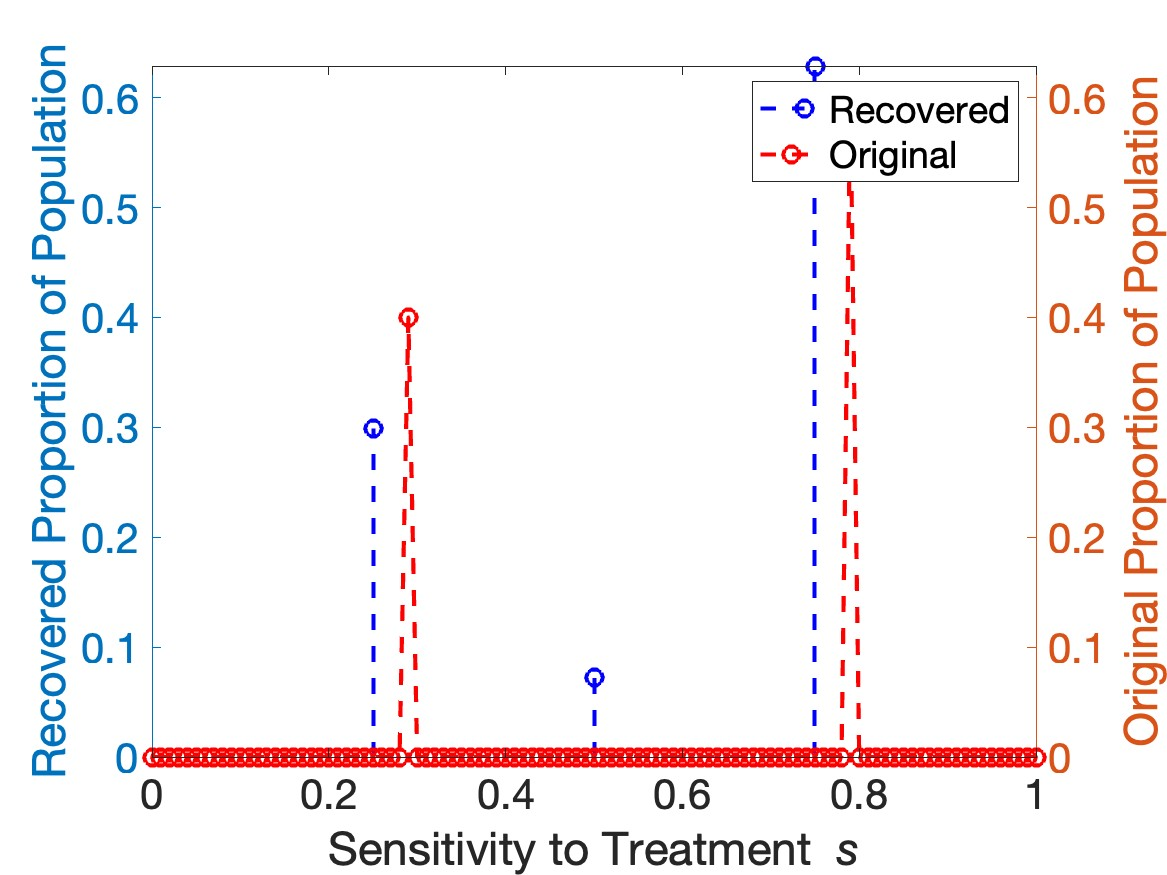
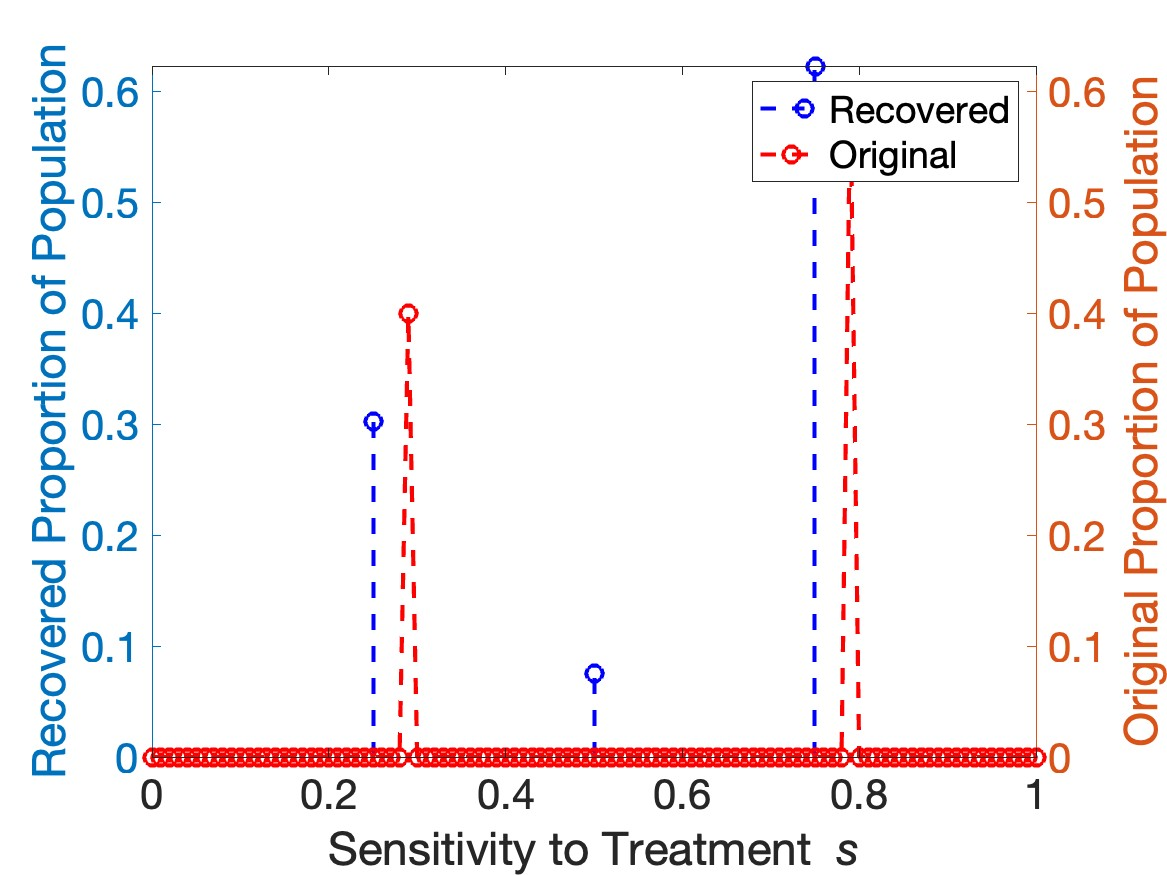
Add dosage vs. sensitivity plot and update figures

diff --git a/DosageVRSensitivity.m b/DosageVRSensitivity.m
@@ -1,0 +1,245 @@
+%S500
+concvecSs500=[1     2     3     4     5     6     7     8     9    10    11];
+evvecs500=[0.391554778598877
+   0.352425300405143
+   0.389966196518857
+   0.474806025021250
+   0.653831925103922
+   0.827238854301867
+   0.877074411165618
+   1.000000000000000
+   0.992086312797904
+   1.000000000000000
+   0.910351624119585];
+concvecSs100=[ 1     2     3     4     5     6     7     8     9    10];
+evvecs100=[0.309137258143782
+   0.376226119126448
+   0.444147924964657
+   0.488238161747171
+   0.575640508475282
+   0.692432499975030
+   0.820227387509498
+   1.000000000000000
+   1.000000000000000
+   0.982673013036324];
+concvecSr250=[1     2     3     4     5     6     7     8     9    10    11];
+evvecr250=[0.002471250675863
+   0.127051505876649
+   0.134933309964287
+   0.135628018300982
+   0.183493012158774
+   0.211724440249231
+   0.149751623117030
+   0.114473971160524
+   0.000000000000000
+   0.000000000000000
+   0.023368902402449];
+concvecSr500=[ 1     2     3     4     5     6     7     8     9    10    11];
+evvecr500=[0.005653121488685
+   0.030778546248698
+   0.028191744271588
+   0.000671181988044
+   0.027802537570680
+   0.046127126386338
+   0.000000000000000
+   0.000000000000000
+   0.000000000000000
+   0.000000000000000
+   0.015621836156726];
+concvecSbf11=[  1     2     3     4     5     6     7     8     9    10    11];
+evvecbf11=[0.199500419290343
+   0.270224097312327
+   0.299152332415836
+   0.295285747402492
+   0.319495739999136
+   0.367514320329439
+   0.384949307641148
+   0.369222334192770
+   0.251851433123408
+   0.170497317171638
+   0.307429525772766];
+concvecSbf12=[ 1     2     3     4     5     6     7     8     9    10    11];
+evvecbf12=[0.122159159646169
+   0.109959944033354
+   0.121343177525710
+   0.138427504349731
+   0.184550933157761
+   0.180404249604588
+   0.227362252986868
+   0.128476985398751
+   0.069412681263310
+   0.000000000000000
+   0.138038080485024];
+concvecSbf21=[1     2     3     4     5     6     7     8     9    10    11
+];
+evvecbf21=[0.392641562612595
+   0.414362693626728
+   0.424092262316530
+   0.542558491547363
+   0.626085478998792
+   0.676012738599930
+   0.727062601862941
+   0.722953321626847
+   0.653787072273230
+   0.605415698766361
+   0.696717225937701];
+concvecSbf41=[1     2     3     4     5     6     7     8     9    10    11
+];
+evvecbf41=[ 0.338227965860502
+   0.393182636770071
+   0.413165524751177
+   0.484858984341095
+   0.618003179229237
+   0.657787331045966
+   0.769264286272438
+   0.816442865706253
+   0.737992224323920
+   0.743279011796481
+   0.875163598277047];
+
+clr=jet(6);
+
+dosevec= [0, 0.0260,0.0536, 0.1094, 0.2244, 0.3410,0.4603,1.1908,2.4430,3.7133,5.0119];
+% 
+% figure
+% plot(concvecSs100,evvecs100,'d','LineWidth',2,'Color',clr(3,:))
+% hold on
+% plot(concvecSs500,evvecs500,'d','LineWidth',2,'Color',clr(3,:))
+
+%just resistant
+figure
+semilogx(dosevec(concvecSr250),evvecr250,'d','MarkerSize',8,'LineWidth',2,'Color',clr(1,:))
+hold on
+semilogx(dosevec(concvecSr500),evvecr500,'o','MarkerSize',8,'LineWidth',2,'Color',clr(1,:))
+% hold on
+% semilogx(dosevec(concvecSs500),evvecs500,'d','MarkerSize',8,'LineWidth',2,'Color',clr(6,:))
+% hold on
+% semilogx(dosevec(concvecSs100),evvecs100,'d','MarkerSize',8,'LineWidth',2,'Color',clr(6,:))
+% %legend('Resistant Data 1','Resistant Data 2','Sensitive Data 1','Sensitive Data 2','Location','northwest')
+% semilogx(dosevec(concvecSbf12),evvecbf12,'d','MarkerSize',8,'LineWidth',2,'Color',clr(2,:))
+% hold on
+% semilogx(dosevec(concvecSbf11),evvecbf11,'d','MarkerSize',8,'LineWidth',2,'Color',clr(3,:))
+% hold on
+% semilogx(dosevec(concvecSbf21),evvecbf21,'d','MarkerSize',8,'LineWidth',2,'Color',clr(4,:))
+% hold on
+% semilogx(dosevec(concvecSbf41),evvecbf41,'d','MarkerSize',8,'LineWidth',2,'Color',clr(5,:))
+legend('Resistant 1','Resistant 2','Location','northwest','FontSize',16)
+ylim([0 1])
+xlabel('Log(Dosage)')
+ylabel('Mean Recovered Sensitivity')
+set(gca,"FontSize",20)
+
+%resistant and sensitive
+figure
+semilogx(dosevec(concvecSr250),evvecr250,'d','MarkerSize',8,'LineWidth',2,'Color',clr(1,:))
+hold on
+semilogx(dosevec(concvecSr500),evvecr500,'o','MarkerSize',8,'LineWidth',2,'Color',clr(1,:))
+hold on
+semilogx(dosevec(concvecSs500),evvecs500,'d','MarkerSize',8,'LineWidth',2,'Color',clr(6,:))
+hold on
+semilogx(dosevec(concvecSs100),evvecs100,'o','MarkerSize',8,'LineWidth',2,'Color',clr(6,:))
+% %legend('Resistant Data 1','Resistant Data 2','Sensitive Data 1','Sensitive Data 2','Location','northwest')
+% semilogx(dosevec(concvecSbf12),evvecbf12,'d','MarkerSize',8,'LineWidth',2,'Color',clr(2,:))
+% hold on
+% semilogx(dosevec(concvecSbf11),evvecbf11,'d','MarkerSize',8,'LineWidth',2,'Color',clr(3,:))
+% hold on
+% semilogx(dosevec(concvecSbf21),evvecbf21,'d','MarkerSize',8,'LineWidth',2,'Color',clr(4,:))
+% hold on
+% semilogx(dosevec(concvecSbf41),evvecbf41,'d','MarkerSize',8,'LineWidth',2,'Color',clr(5,:))
+legend('Resistant 1','Resistant 2','Sensitive 1','Sensitive 2','Location','northwest','FontSize',16)
+xlabel('Log(Dosage)')
+ylabel('Mean Recovered Sensitivity')
+set(gca,"FontSize",20)
+
+%resistant, sensitive, and 1:2
+figure
+semilogx(dosevec(concvecSr250),evvecr250,'d','MarkerSize',8,'LineWidth',2,'Color',clr(1,:))
+hold on
+semilogx(dosevec(concvecSr500),evvecr500,'o','MarkerSize',8,'LineWidth',2,'Color',clr(1,:))
+%legend('Resistant Data 1','Resistant Data 2','Sensitive Data 1','Sensitive Data 2','Location','northwest')
+semilogx(dosevec(concvecSbf12),evvecbf12,'d','MarkerSize',8,'LineWidth',2,'Color',clr(2,:))
+% hold on
+% semilogx(dosevec(concvecSbf11),evvecbf11,'d','MarkerSize',8,'LineWidth',2,'Color',clr(3,:))
+% hold on
+% semilogx(dosevec(concvecSbf21),evvecbf21,'d','MarkerSize',8,'LineWidth',2,'Color',clr(4,:))
+% hold on
+% semilogx(dosevec(concvecSbf41),evvecbf41,'d','MarkerSize',8,'LineWidth',2,'Color',clr(5,:))
+% hold on
+semilogx(dosevec(concvecSs500),evvecs500,'d','MarkerSize',8,'LineWidth',2,'Color',clr(6,:))
+hold on
+semilogx(dosevec(concvecSs100),evvecs100,'o','MarkerSize',8,'LineWidth',2,'Color',clr(6,:))
+legend('Resistant 1','Resistant 2','S:2R Mixture','Sensitive 1','Sensitive 2','Location','northwest','FontSize',16)
+xlabel('Log(Dosage)')
+ylabel('Mean Recovered Sensitivity')
+set(gca,"FontSize",20)
+
+%r,s,1:2,1:1
+figure
+semilogx(dosevec(concvecSr250),evvecr250,'d','MarkerSize',8,'LineWidth',2,'Color',clr(1,:))
+hold on
+semilogx(dosevec(concvecSr500),evvecr500,'o','MarkerSize',8,'LineWidth',2,'Color',clr(1,:))
+
+%legend('Resistant Data 1','Resistant Data 2','Sensitive Data 1','Sensitive Data 2','Location','northwest')
+semilogx(dosevec(concvecSbf12),evvecbf12,'d','MarkerSize',8,'LineWidth',2,'Color',clr(2,:))
+hold on
+semilogx(dosevec(concvecSbf11),evvecbf11,'d','MarkerSize',8,'LineWidth',2,'Color',clr(3,:))
+% hold on
+% semilogx(dosevec(concvecSbf21),evvecbf21,'d','MarkerSize',8,'LineWidth',2,'Color',clr(4,:))
+% hold on
+% semilogx(dosevec(concvecSbf41),evvecbf41,'d','MarkerSize',8,'LineWidth',2,'Color',clr(5,:))
+% hold on
+semilogx(dosevec(concvecSs500),evvecs500,'d','MarkerSize',8,'LineWidth',2,'Color',clr(6,:))
+hold on
+semilogx(dosevec(concvecSs100),evvecs100,'o','MarkerSize',8,'LineWidth',2,'Color',clr(6,:))
+legend('Resistant 1','Resistant 2','S:2R Mixture','S:R Mixture','Sensitive 1','Sensitive 2','Location','northwest','FontSize',16)
+xlabel('Log(Dosage)')
+ylabel('Mean Recovered Sensitivity')
+set(gca,"FontSize",20)
+
+%all but 4:1
+figure
+semilogx(dosevec(concvecSr250),evvecr250,'d','MarkerSize',8,'LineWidth',2,'Color',clr(1,:))
+hold on
+semilogx(dosevec(concvecSr500),evvecr500,'o','MarkerSize',8,'LineWidth',2,'Color',clr(1,:))
+
+%legend('Resistant Data 1','Resistant Data 2','Sensitive Data 1','Sensitive Data 2','Location','northwest')
+semilogx(dosevec(concvecSbf12),evvecbf12,'d','MarkerSize',8,'LineWidth',2,'Color',clr(2,:))
+hold on
+semilogx(dosevec(concvecSbf11),evvecbf11,'d','MarkerSize',8,'LineWidth',2,'Color',clr(3,:))
+hold on
+semilogx(dosevec(concvecSbf21),evvecbf21,'d','MarkerSize',8,'LineWidth',2,'Color',clr(4,:))
+% hold on
+% semilogx(dosevec(concvecSbf41),evvecbf41,'d','MarkerSize',8,'LineWidth',2,'Color',clr(5,:))
+hold on
+semilogx(dosevec(concvecSs500),evvecs500,'d','MarkerSize',8,'LineWidth',2,'Color',clr(6,:))
+hold on
+semilogx(dosevec(concvecSs100),evvecs100,'o','MarkerSize',8,'LineWidth',2,'Color',clr(6,:))
+legend('Resistant 1','Resistant 2','S:2R Mixture','S:R Mixture','2S:R Mixture','Sensitive 1','Sensitive 2','Location','northwest','FontSize',16)
+xlabel('Log(Dosage)')
+ylabel('Mean Recovered Sensitivity')
+set(gca,"FontSize",20)
+
+
+%all
+figure
+semilogx(dosevec(concvecSr250),evvecr250,'d','MarkerSize',8,'LineWidth',2,'Color',clr(1,:))
+hold on
+semilogx(dosevec(concvecSr500),evvecr500,'o','MarkerSize',8,'LineWidth',2,'Color',clr(1,:))
+
+%legend('Resistant Data 1','Resistant Data 2','Sensitive Data 1','Sensitive Data 2','Location','northwest')
+semilogx(dosevec(concvecSbf12),evvecbf12,'d','MarkerSize',8,'LineWidth',2,'Color',clr(2,:))
+hold on
+semilogx(dosevec(concvecSbf11),evvecbf11,'d','MarkerSize',8,'LineWidth',2,'Color',clr(3,:))
+hold on
+semilogx(dosevec(concvecSbf21),evvecbf21,'d','MarkerSize',8,'LineWidth',2,'Color',clr(4,:))
+hold on
+semilogx(dosevec(concvecSbf41),evvecbf41,'d','MarkerSize',8,'LineWidth',2,'Color',clr(5,:))
+hold on
+semilogx(dosevec(concvecSs500),evvecs500,'d','MarkerSize',8,'LineWidth',2,'Color',clr(6,:))
+hold on
+semilogx(dosevec(concvecSs100),evvecs100,'o','MarkerSize',8,'LineWidth',2,'Color',clr(6,:))
+legend('Resistant 1','Resistant 2','S:2R Mixture','S:R Mixture','2S:R Mixture','4S:R Mixture','Sensitive 1','Sensitive 2','Location','northwest','FontSize',16)
+xlabel('Log(Dosage)')
+ylabel('Mean Recovered Sensitivity')
+set(gca,"FontSize",20)
+

diff --git a/GLSAllDataInclNaNsPaper.m b/GLSAllDataInclNaNsPaper.m
@@ -8,7 +8,7 @@ clear all
 
 format long
 
-choosedata=['S500']; %choose between R250, R500, S500, and S1000
+choosedata=['BF41']; %choose between R250, R500, S500, and S1000
 %or BF11,BF12,BF21,BF41
 %rho=0.3; %originially chosen from phenopop to be 0.3
 %k=0.15; %originially chosen arbitrarily to be 0.15
@@ -34,24 +34,26 @@ if choosedata=='R250'
     rhomin=0.0241;
     rhomax=0.0692; %from first row
     kmin=0;
+    %kmin=-0.062361366641783; %when neg k is allowed
     kmax=0.0019; %just chose lower option
 elseif choosedata=='R500'
     rhomin=0.0375;
     rhomax=0.0682; 
     kmin=0;
+    %kmin=-0.061447543419865; %when neg k is allowed 
     kmax=0.0019; %just chose lower option
     %kmax = 0.004; %experimenting 
 elseif choosedata=='S500'
     rhomin=0.0241; %just chose lower option
     rhomax=0.0692; %just chose higher option 
-    %kmin=0;
-    kmin=-0.043428075769482; %if we allow neg death term
+    kmin=0;
+    %kmin=-0.043428075769482; %if we allow neg death term
     kmax=0.0019; %from 10th row
 elseif choosedata=='S100'
     rhomin=0.0241; %just chose lower option
     rhomax=0.0692; %just chose higher option 
     kmin=0;
-    kmin= -0.046240802804395; %if we allow neg death term
+    %kmin= -0.046240802804395; %if we allow neg death term
     %kmax=0.0077; %from 9th row
     kmax=0.004705245484133; %for regular death term for s100
     %kmax=0.068991914276888 %for death term with rho for s100
@@ -69,12 +71,13 @@ dosevecstring= ["0.00", "0.03","0.05", "0.12", "0.22", "0.34","0.46","1.19","2.4
 %rhovec=zeros(length(dosevec),1);
 %rhovec=rho.*(dosevec./dosevec(11));
 %rhovec=rho*ones(length(dosevec),1) - rho.*(dosevec./dosevec(11))';
-%kvec=kmax.*(dosevec./dosevec(11)); %original 
+kvec=kmax.*(dosevec./dosevec(11)); %original 
 %kvec=kmax*ones(size(dosevec)); %experimenting 
 %kvec=kmax.*(dosevec.^2./dosevec(11)^2); %experimenting 
 %kvec=0.5*kmax*linspace(0,1,11);
 %kvec=zeros(size(dosevec))
-kvec=linspace(kmin,kmax,11);
+%kvec=linspace(kmin,kmax,11);
+%kvec=linspace(kmin,kmax,11).*(dosevec./dosevec(11));
 %kvec=k.*(ones(length(dosevec)) + dosevec);
 %kvec=k.*(1 + (dosevec./dosevec(11)));
 %kvec=k.*ones(length(dosevec),1) + (dosevec./dosevec(11));
@@ -140,7 +143,7 @@ AICminvec=zeros(concnum,1);
 AICcheck=zeros(concnum,1);
 optmat=zeros(concnum,length(rpointsvec));
 for a=1:length(concvecA)
-    data=meanmatnorm(a,1:tspanvec(a))
+    data=meanmatnorm(a,1:tspanvec(a));
     %keyboard
     tspanS=tspanmat(a,1:tspanvec(a));
     %keyboard
@@ -204,7 +207,9 @@ for a=1:length(concvecS)
     %plot(trymatoptrsgridS(a,1:AICminvecS(a)),optmatS(a,1:AICminvecS(a)),'LineWidth',2,'Color',clr(a,:))
     %plot(trymatoptrsgridS(a,1:AICminvecS(a)),optmatS(a,1:AICminvecS(a)),'--o','MarkerSize',8,'LineWidth',2,'Color',clr(a,:))
     %plot(trymatoptrsgridS(a,1:AICminvecS(a)),optmatS(a,1:AICminvecS(a)),'--o','MarkerSize',8,'LineWidth',2,'MarkerEdgeColor',clr(a,:),'MarkerFaceColor',clr(a,:))
-    plot(trymatoptrsgridS(a,1:AICminvecS(a)),optmatS(a,1:AICminvecS(a)),'--o','Color',clr(a,:),'MarkerFaceColor',clr(a,:),'MarkerSize',8,'LineWidth',2)
+    % plot(trymatoptrsgridS(a,1:AICminvecS(a)),optmatS(a,1:AICminvecS(a)),'--o','Color',clr(a,:),'MarkerFaceColor',clr(a,:),'MarkerSize',8,'LineWidth',2)
+    % %real one ^
+    stem(trymatoptrsgridS(a,1:AICminvecS(a)),optmatS(a,1:AICminvecS(a)),'--o','Color',clr(a,:),'MarkerFaceColor',clr(a,:),'MarkerSize',8,'LineWidth',2)
     
 end
 xlabel('Sensitivity to Treatment {\it s}')

diff --git a/ForwardScript2.m b/ForwardScript2.m
@@ -8,7 +8,7 @@ points=11;
 sgrid=linspace(a,b,points);
 
 %[sprobs] = DistFn(['OnePoint'],sgrid,a,b);
-[sprobs] = DistFn2('Uniform',sgrid,a,b);
+[sprobs] = DistFn2('Bigaussian',sgrid,a,b);
 
 %Other parameters for forward solution 
 rho=1;
@@ -47,7 +47,7 @@ tspan=linspace(0,tfinal,tpoints); %this is so we can initialize matrix with know
     figure
     for i=1:length(sgrid)
         hold on
-        plot(sgrid(i), sprobs(i),'o','LineWidth',3,'MarkerSize',12)
+        stem(sgrid(i), sprobs(i),'--o','LineWidth',3,'MarkerSize',12)
     end
     set(gca,"FontSize",20)
     %title('Proportions of Different s Values')

diff --git a/InferMaxK.m b/InferMaxK.m
@@ -10,7 +10,7 @@ load('MONOCLONAL_DATA.mat');
 %T=RESISTANT_500_BF; %last row has NaN, use concvec=linspace(1,concsize-1,concsize-1);
 %T=SENSITIVE_500_BF; %no NaN
 %T=SENSITIVE_1000_BF; %last row has NaN, use concvec=linspace(1,concsize-1,concsize-1);
-choosedata='S500';
+choosedata='R500';
 % constdata=T;
 % sz = size(T);
 % tsize=sz(3);
